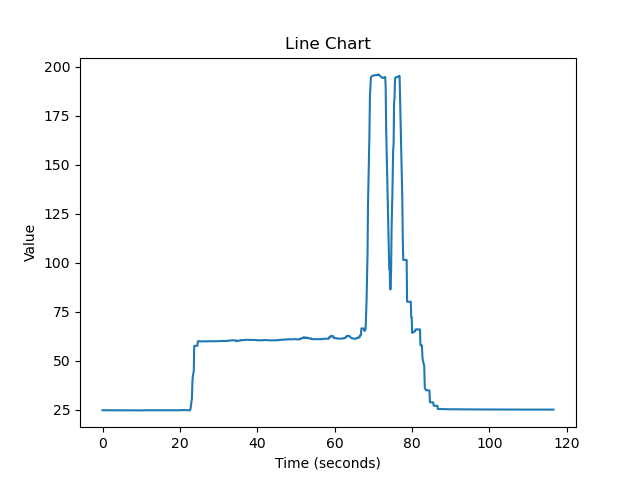
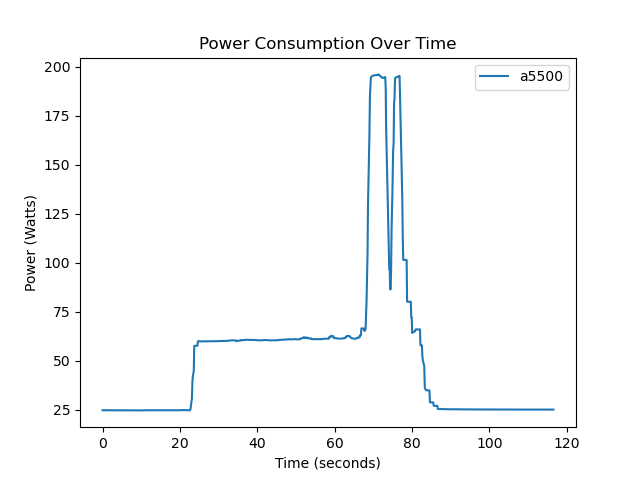
energy consumption testing

diff --git a/evaluation/energy_usage.py b/evaluation/energy_usage.py
@@ -30,30 +30,67 @@ def compute_energy(file_path):
     
     return energy, data
 
-def makePlot(data, filename):
+def makePlot(data, name, filename):
     times, values = zip(*data)
     start_time = times[0]
     times = [(t - start_time) for t in times]
     plt.plot(times, values)     # Plot the data
     plt.xlabel('Time (seconds)')# Label for the x-axis
-    plt.ylabel('Value')         # Label for the y-axis
-    plt.title('Line Chart')     # Title of the chart
+    plt.ylabel('Power (Watts)')         # Label for the y-axis
+    plt.title(f'{name} Power Consumption')     # Title of the chart
     plt.savefig(filename)       # Save the chart as an image file
     plt.close()
-    
+
+def makePlotList(data_list, names, filename):
+    plt.figure()  # Create a new figure for the plot
+    for data, name in zip(data_list, names):
+        times, values = zip(*data)
+        start_time = times[0]
+        times = [(t - start_time) for t in times]
+        plt.plot(times, values, label=name)  # Plot the data with a label
+    plt.xlabel('Time (seconds)')  # Label for the x-axis
+    plt.ylabel('Power (Watts)')  # Label for the y-axis
+    plt.title('Power Consumption Over Time')  # Title of the chart
+    plt.legend(names)  # Show legend
+    plt.savefig(filename)  # Save the chart as an image file
+    plt.close()
+
 if __name__ == "__main__":
-    if len(sys.argv) < 2:
-        print("Usage: python script.py <input_file> [output_file]")
+    if len(sys.argv) < 3:
+        print("Usage: python script.py <input_file1> <input_file2> [<input_file3> ...] <output_file>")
         sys.exit(1)
 
-    input_file = sys.argv[1]
-    total_energy, data = compute_energy(input_file)
+    input_files = sys.argv[1:-1]
+    output_file = sys.argv[-1]
+
+    data_list = []
+    total_energy = []
+    names = []
+
+    for input_file in input_files:
+        name = input_file.split('-')[0]
+        names.append(name)
+        energy, data = compute_energy(input_file)
+        total_energy .append((input_file, energy))
+        data_list.append(data)
 
     print("Total energy consumed:", total_energy, "Joules")
 
-    if len(sys.argv) > 2:
-        output_file = sys.argv[2]
+    makePlotList(data_list, names, output_file)
+    
+# if __name__ == "__main__":
+#     if len(sys.argv) < 2:
+#         print("Usage: python script.py <input_file> [output_file]")
+#         sys.exit(1)
 
-        if (output_file):
-            makePlot(data, output_file)
+#     input_file = sys.argv[1]
+#     total_energy, data = compute_energy(input_file)
+
+#     print("Total energy consumed:", total_energy, "Joules")
+
+#     if len(sys.argv) > 2:
+#         output_file = sys.argv[2]
+
+#         if (output_file):
+#             makePlot(data, output_file)
 
